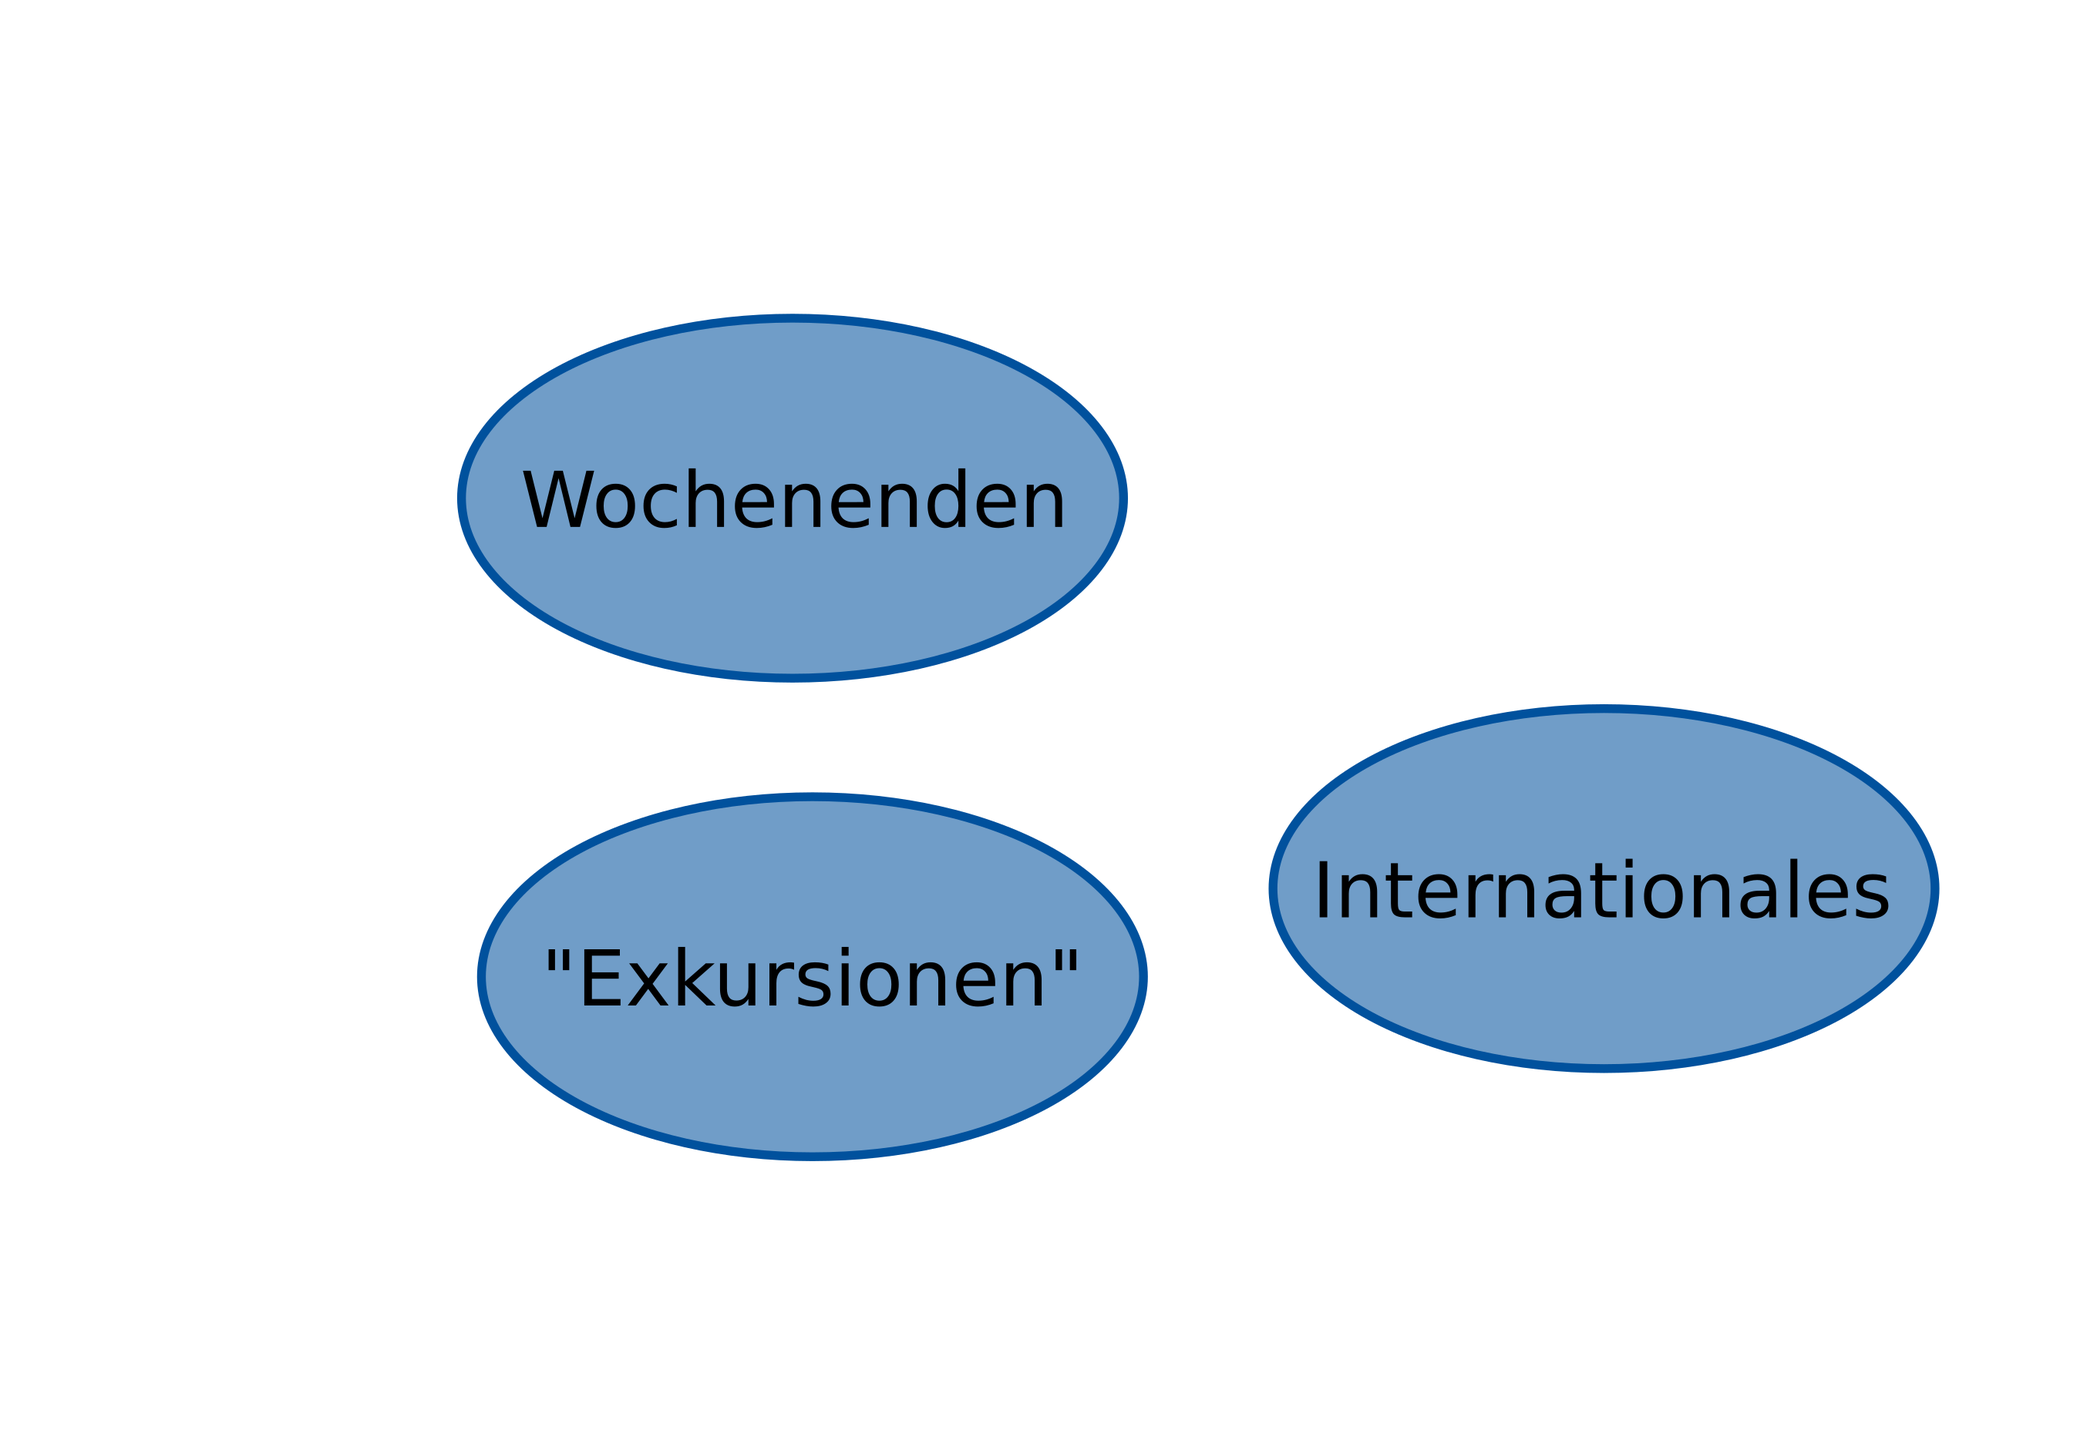
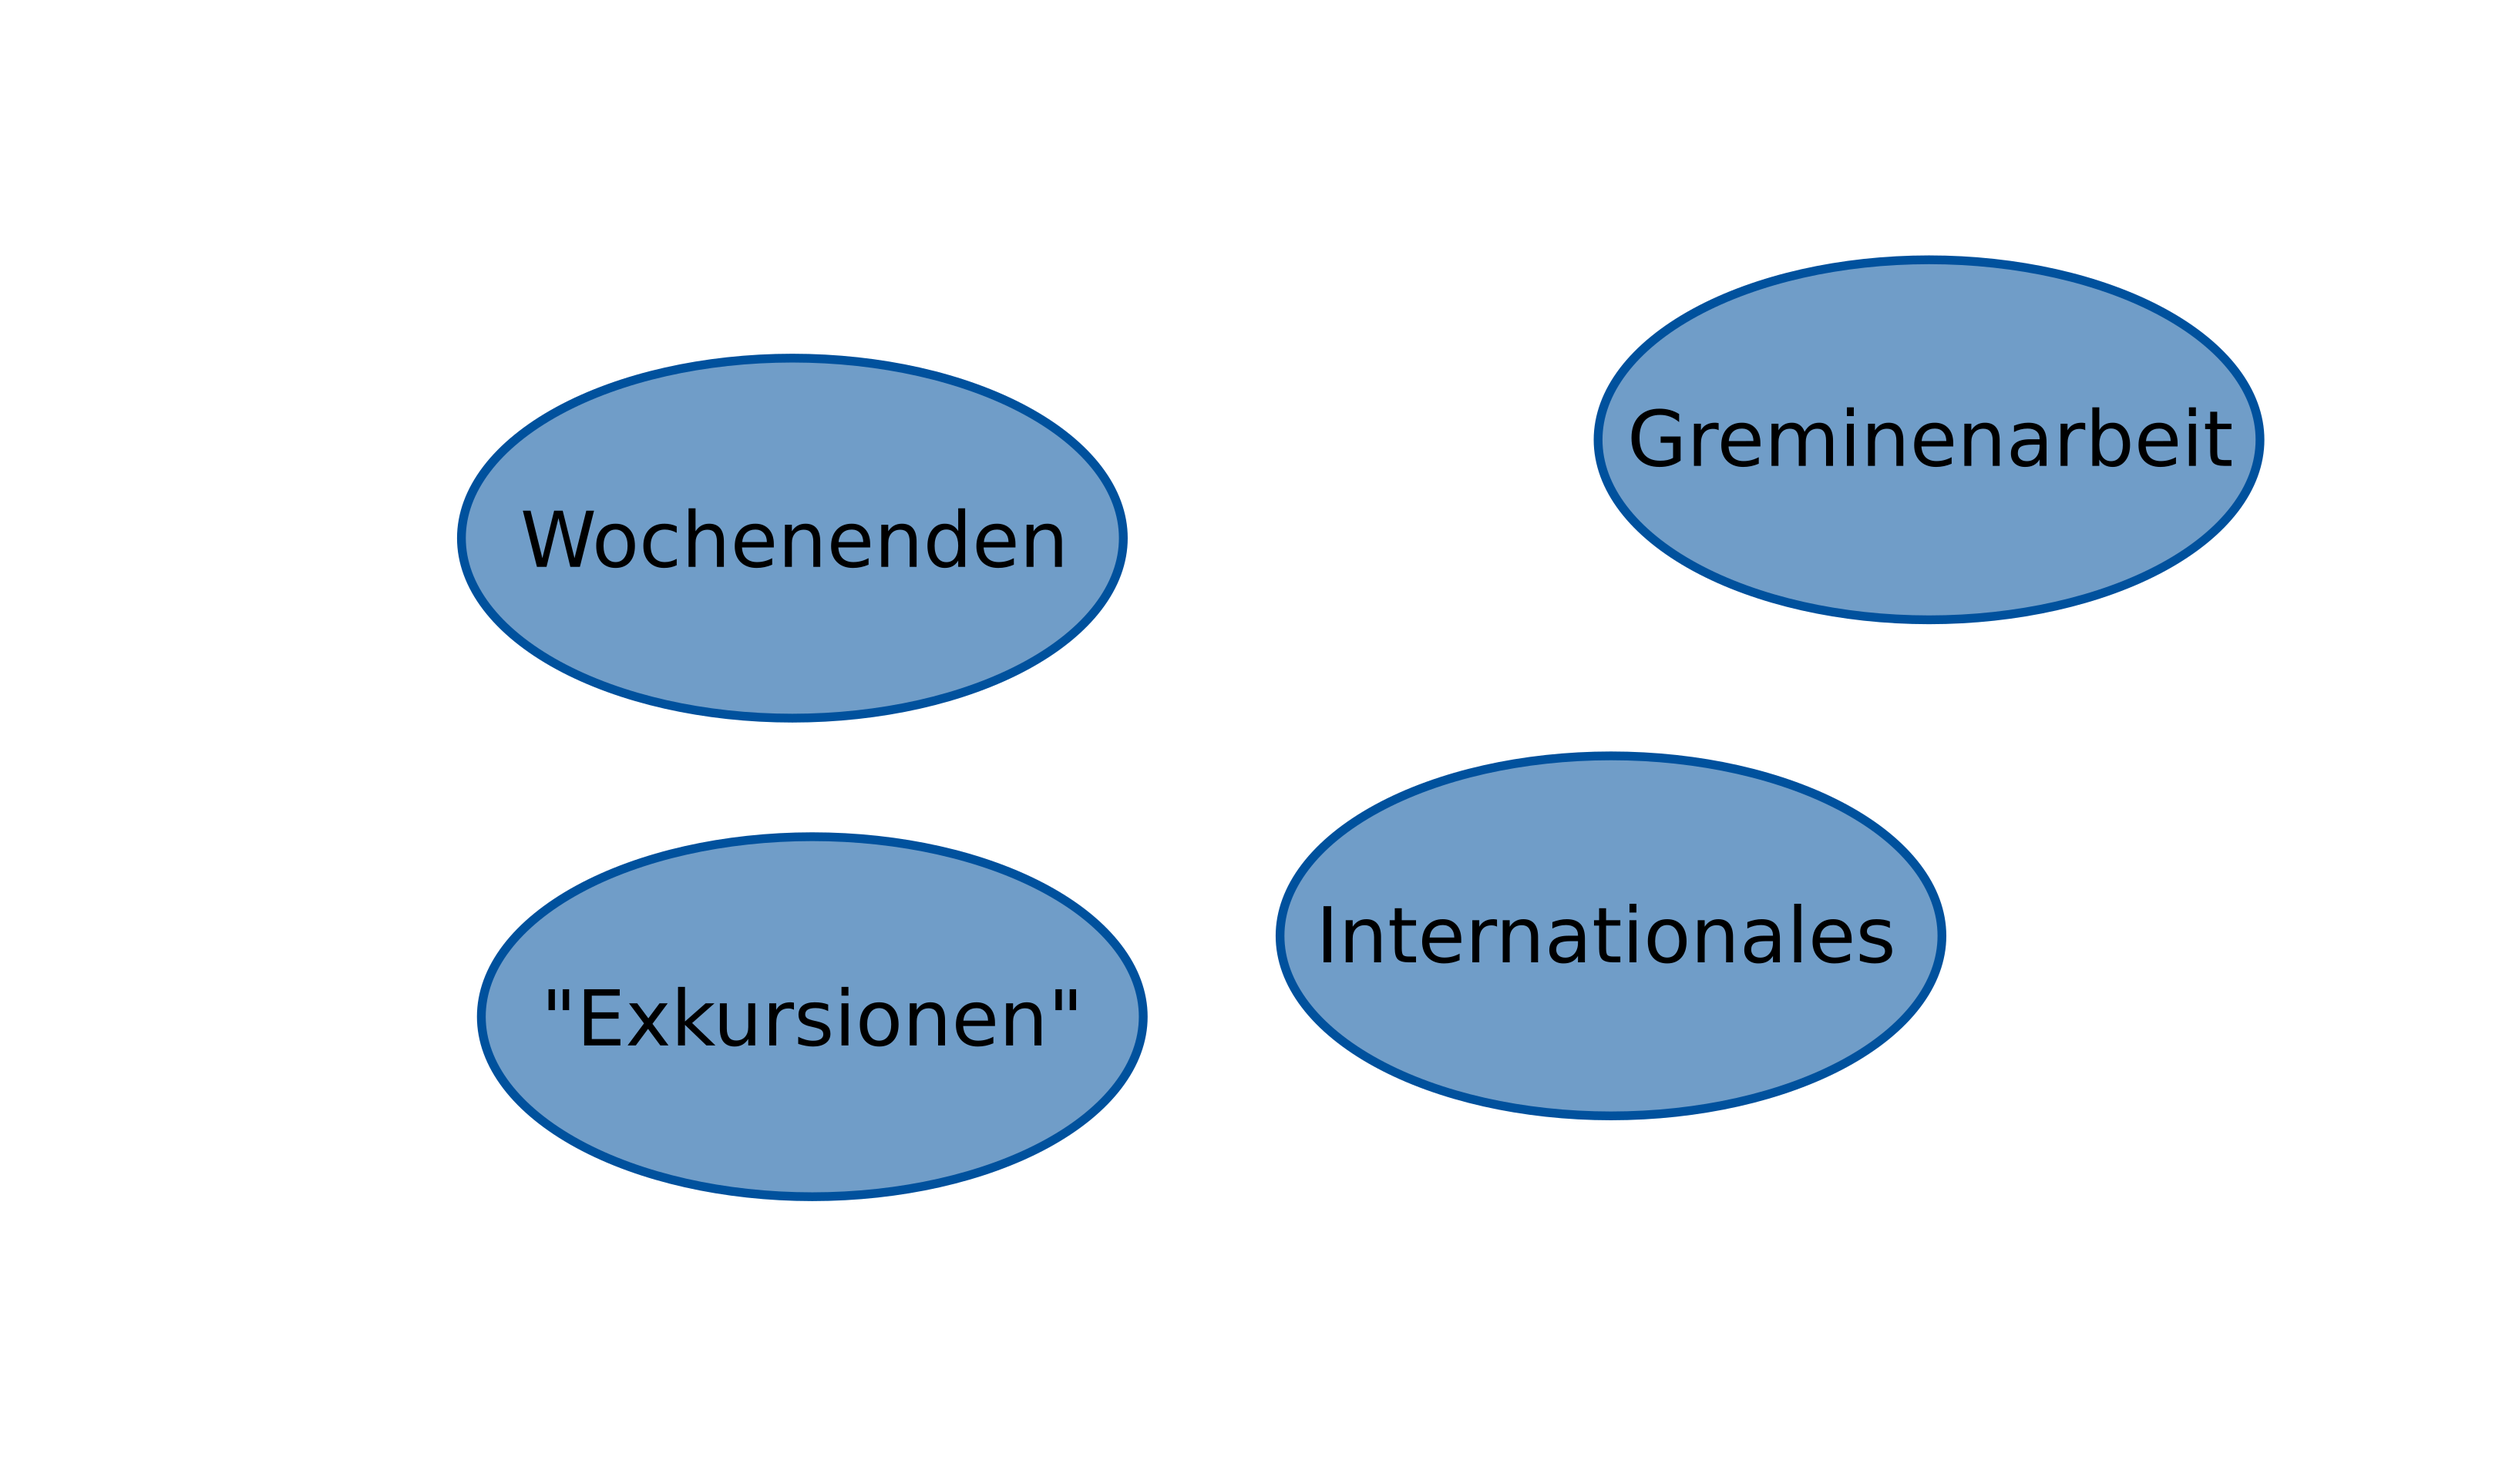
adding the slide text and updated brainstorm maps

Changed region(s): [[0.1862, 0.4665, 0.9309, 0.8397], [0.1862, 0.2177, 0.5586, 0.4976], [0.6206, 0.1555, 0.9309, 0.4354]]

diff --git a/presentation_Vorlage.tex b/presentation_Vorlage.tex
@@ -63,26 +63,131 @@
 \end{figure}
 \end{frame}
 
+\begin{frame}{Gremienarbeit}
+  \begin{minipage}[0.3\textwidth]
+    \begin{figure}
+      \centering
+      \includegraphics[width=0.99\textwidth]{figure/MV_2018_badHonnef_christina_mathias}
+     \end{figure}
+  \end{minipage}%
+  \begin{minipage}[0.4\textwidth]
+    \begin{itemize}
+      \item Mitgliederversammlung\\
+      jDPG Wochenende
+    \end{itemize}
+    Workshops, Wahlen, Entlastung Vorstand
+  \end{minipage}
+  \begin{minipage}[0.3\textwidth]
+    \begin{figure}
+      \centering
+      \includegraphics[width=0.99\textwidth]{figure/MV_2018_badHonnef_publikum}
+     \end{figure}
+  \end{minipage}
+
+  \begin{minipage}[0.4\textwidth]
+    \begin{itemize}
+      \item Vernetzungstreffen
+    \end{itemize}
+    Austausch zwischen Regionalgruppen und Vertiefung jDPG-Wissen
+  \end{minipage}%
+  \begin{minipage}[0.6\textwidth]
+    \begin{figure}
+      \centering
+      \includegraphics[width=0.49\textwidth]{figure/VT-West-2018_Austausch}\hfill
+      \includegraphics[width=0.49\textwidth]{figure/VT-West-2018_wissen}\\
+      \begin{center}
+        Vernetzungstreffen West 2018
+      \end{center}
+     \end{figure}
+  \end{minipage}
+\end{frame}
+
+\begin{frame}{intensive Wochenenden}
+  \begin{minipage}[0.4\textwidth]
+    \begin{itemize}
+      \item Theoretikerworkshop
+      \item Wochenendseminar
+      \item Umweltseminar
+      \item Physik trifft ...
+    \end{itemize}
+    drei Tage, ein Thema
+  \end{minipage}
+  \begin{minipage}[0.6\textwidth]
+    \begin{figure}
+      \centering
+      \includegraphics[width=0.49\textwidth]{figure/astrogastro_2017_david}\hfill
+      \includegraphics[width=0.49\textwidth]{figure/astrogastro_2017_wein}\\
+      \begin{center}
+        AstroGastro 2017 $\rightarrow$ Physik trifft Gastronomie
+      \end{center}
+     \end{figure}
+  \end{minipage}
+  
+  \begin{minipage}[0.6\textwidth]
+    \begin{figure}
+      \centering
+      \includegraphics[width=0.49\textwidth]{figure/vereinbarkeitsworkshop_2017_PZ}\hfill
+      \includegraphics[width=0.49\textwidth]{figure/vereinbarkeitsworkshop_2017_TN}\\
+      \begin{center}
+        Vereinbarkeitsworkshop 2017 $\rightarrow$ Physikkarriere und Familie
+      \end{center}
+     \end{figure}
+  \end{minipage}
+  \begin{minipage}[0.4\textwidth]
+    \begin{itemize}
+      \item Berufsvorbereitungsseminare
+      \item Vereinbarkeitsworkshop
+    \end{itemize}
+    Austausch mit Physikern über nichtphysikalisches Thema
+  \end{minipage}
+\end{frame}
+
 \begin{frame}{Internationales}
   \begin{figure}
-   \centering
-   \includegraphics[width=0.80\textwidth]{figure/thank_you_1}
+    \centering
+    \includegraphics[width=0.6\textwidth]{figure/gipe_2018}
+    \begin{center}
+      Italienaustausch ( GIPE ) - AISF $\leftrightarrow$ jDPG
+    \end{center}
+  \end{figure}
+
+  \begin{figure}
+    \centering
+    \includegraphics[width=0.6\textwidth]{figure/mafie_2017}
+    \begin{center}
+      Ungarnaustausch - Mafie $\leftrightarrow$ jDPG
+    \end{center}
   \end{figure}
 \end{frame}
 
 \begin{frame}{"Exkursionen"}
-  \begin{figure}
-   \centering
-   \includegraphics[width=0.80\textwidth]{figure/thank_you_1}
-  \end{figure}
+  \begin{minipage}[0.8\textwidth]
+    \begin{figure}
+      \centering
+      \includegraphics[width=0.6\textwidth]{figure/soex_2017}
+     \end{figure}
+  \end{minipage}
+  \begin{minipage}[0.2\textwidth]
+    \begin{itemize}
+      \item Sommerexkursion
+    \end{itemize}
+    jDPG auf Tour - das Event zum Wiedersehen
+  \end{minipage}
+
+  \begin{minipage}[0.8\textwidth]
+    \begin{figure}
+      \centering
+      \includegraphics[width=0.6\textwidth]{figure/soex_2017}
+     \end{figure}
+  \end{minipage}
+  \begin{minipage}[0.2\textwidth]
+    \begin{itemize}
+      \item Sommerexkursion
+    \end{itemize}
+    jDPG auf Tour - das Event zum Wiedersehen
+  \end{minipage}
 \end{frame}
 
-\begin{frame}{intensive Wochenenden}
-  \begin{figure}
-   \centering
-   \includegraphics[width=0.80\textwidth]{figure/thank_you_1}
-  \end{figure}
-\end{frame}
 
 \begin{frame}{Zusammenfassung}
   \begin{itemize}
